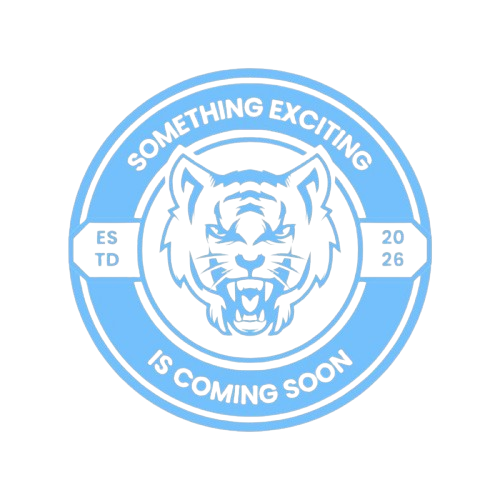
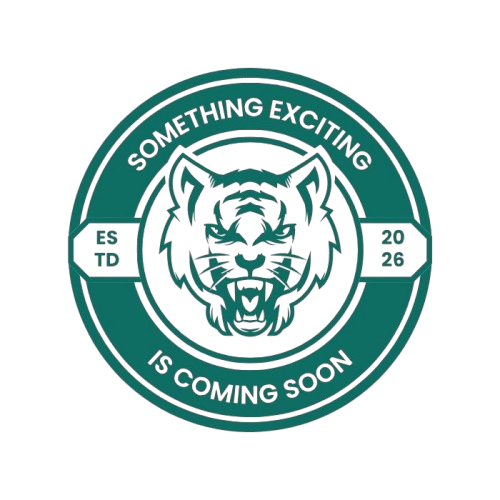
added image

Changed region(s): [[0.12, 0.12, 0.87, 0.87]]

diff --git a/src/index.css b/src/index.css
@@ -28,7 +28,7 @@
    LIGHT THEME
 ================================= */
 
-[data-theme="light"] {
+/* [data-theme="light"] {
   --color-bg: #FFF6F8;
   --color-surface: #FFFFFF;
   --color-border: #EED9E0;
@@ -40,6 +40,20 @@
   --color-text-primary: #191417;
   --color-text-muted: #685D61;
   --color-text-faint: #A99EA3;
+} */
+
+[data-theme="light"] {
+  --color-bg: #F4F7F6;
+  --color-surface: #FFFFFF;
+  --color-border: #DCE6E3;
+
+  --color-accent: #0F6E63;
+  --color-accent-dim: #afe8da;
+  --color-accent-hover: #0B564D;
+
+  --color-text-primary: #101A18;
+  --color-text-muted: #5F6B68;
+  --color-text-faint: #9AA7A3;
 }
 
 @layer base {
